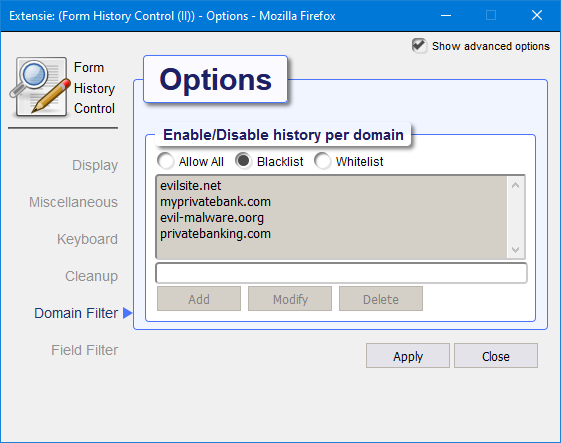
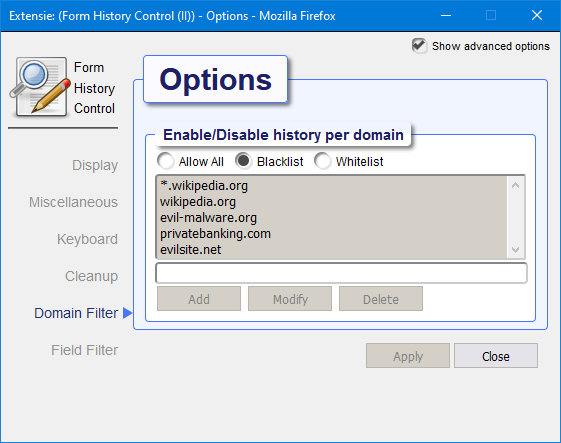
Add explanation Field + Domain-filter, include examples in images

Changed region(s): [[0.6364, 0.763, 0.8182, 0.851], [0.2727, 0.4108, 0.4848, 0.5282], [0.2727, 0.5576, 0.3939, 0.5869]]

diff --git a/docs/ReleaseNotes/fhc-releasenotes/index.html b/docs/ReleaseNotes/fhc-releasenotes/index.html
@@ -752,8 +752,8 @@
 </ul>
 </li>
 <li>Form History Control context menu item can be turned off conditionally (<a href="https://github.com/stephanmahieu/formhistorycontrol-2/issues/68">#68</a>) </li>
-<li>Domain filter supports <code>*</code>-wildcard (match subdomains) (<a href="https://github.com/stephanmahieu/formhistorycontrol-2/issues/71">#71</a>) </li>
-<li>Field filter supports <code>*</code>-wildcard, host prefix and <em>&lt;empty&gt;</em> keyword (<a href="https://github.com/stephanmahieu/formhistorycontrol-2/issues/62">#62</a>)</li>
+<li><a href="https://stephanmahieu.github.io/fhc-home/Manual/manual/#domain-filter">Domain filter support</a> for <code>*</code>-wildcard (match subdomains) (<a href="https://github.com/stephanmahieu/formhistorycontrol-2/issues/71">#71</a>) </li>
+<li><a href="(https://stephanmahieu.github.io/fhc-home/Manual/manual/#field-filter)">Field filter support</a> for <code>*</code>-wildcard, host and <em>&lt;empty&gt;</em> keyword (<a href="https://github.com/stephanmahieu/formhistorycontrol-2/issues/62">#62</a>)</li>
 <li>Chrome browser now also supports disabling the shortcut keys (<a href="https://github.com/stephanmahieu/formhistorycontrol-2/issues/56">#56</a>)</li>
 <li>Fixed: writing to clipboard, additional clipboardWrite permission added to manifest</li>
 <li>Fixed: application icon not showing correct state (active domain filter):<ul>

diff --git a/docsource/ReleaseNotes/fhc-releasenotes.md b/docsource/ReleaseNotes/fhc-releasenotes.md
@@ -18,8 +18,8 @@
     - Highlighting changes back to normal after 5 seconds 
     - Improved readability (change background, text color and border-color) 
 - Form History Control context menu item can be turned off conditionally ([#68](https://github.com/stephanmahieu/formhistorycontrol-2/issues/68)) 
-- Domain filter supports `*`-wildcard (match subdomains) ([#71](https://github.com/stephanmahieu/formhistorycontrol-2/issues/71)) 
-- Field filter supports `*`-wildcard, host prefix and _&lt;empty&gt;_ keyword ([#62](https://github.com/stephanmahieu/formhistorycontrol-2/issues/62))
+- [Domain filter support](https://stephanmahieu.github.io/fhc-home/Manual/manual/#domain-filter) for `*`-wildcard (match subdomains) ([#71](https://github.com/stephanmahieu/formhistorycontrol-2/issues/71)) 
+- [Field filter support]((https://stephanmahieu.github.io/fhc-home/Manual/manual/#field-filter)) for `*`-wildcard, host and _&lt;empty&gt;_ keyword ([#62](https://github.com/stephanmahieu/formhistorycontrol-2/issues/62))
 - Chrome browser now also supports disabling the shortcut keys ([#56](https://github.com/stephanmahieu/formhistorycontrol-2/issues/56))
 - Fixed: writing to clipboard, additional clipboardWrite permission added to manifest
 - Fixed: application icon not showing correct state (active domain filter):
